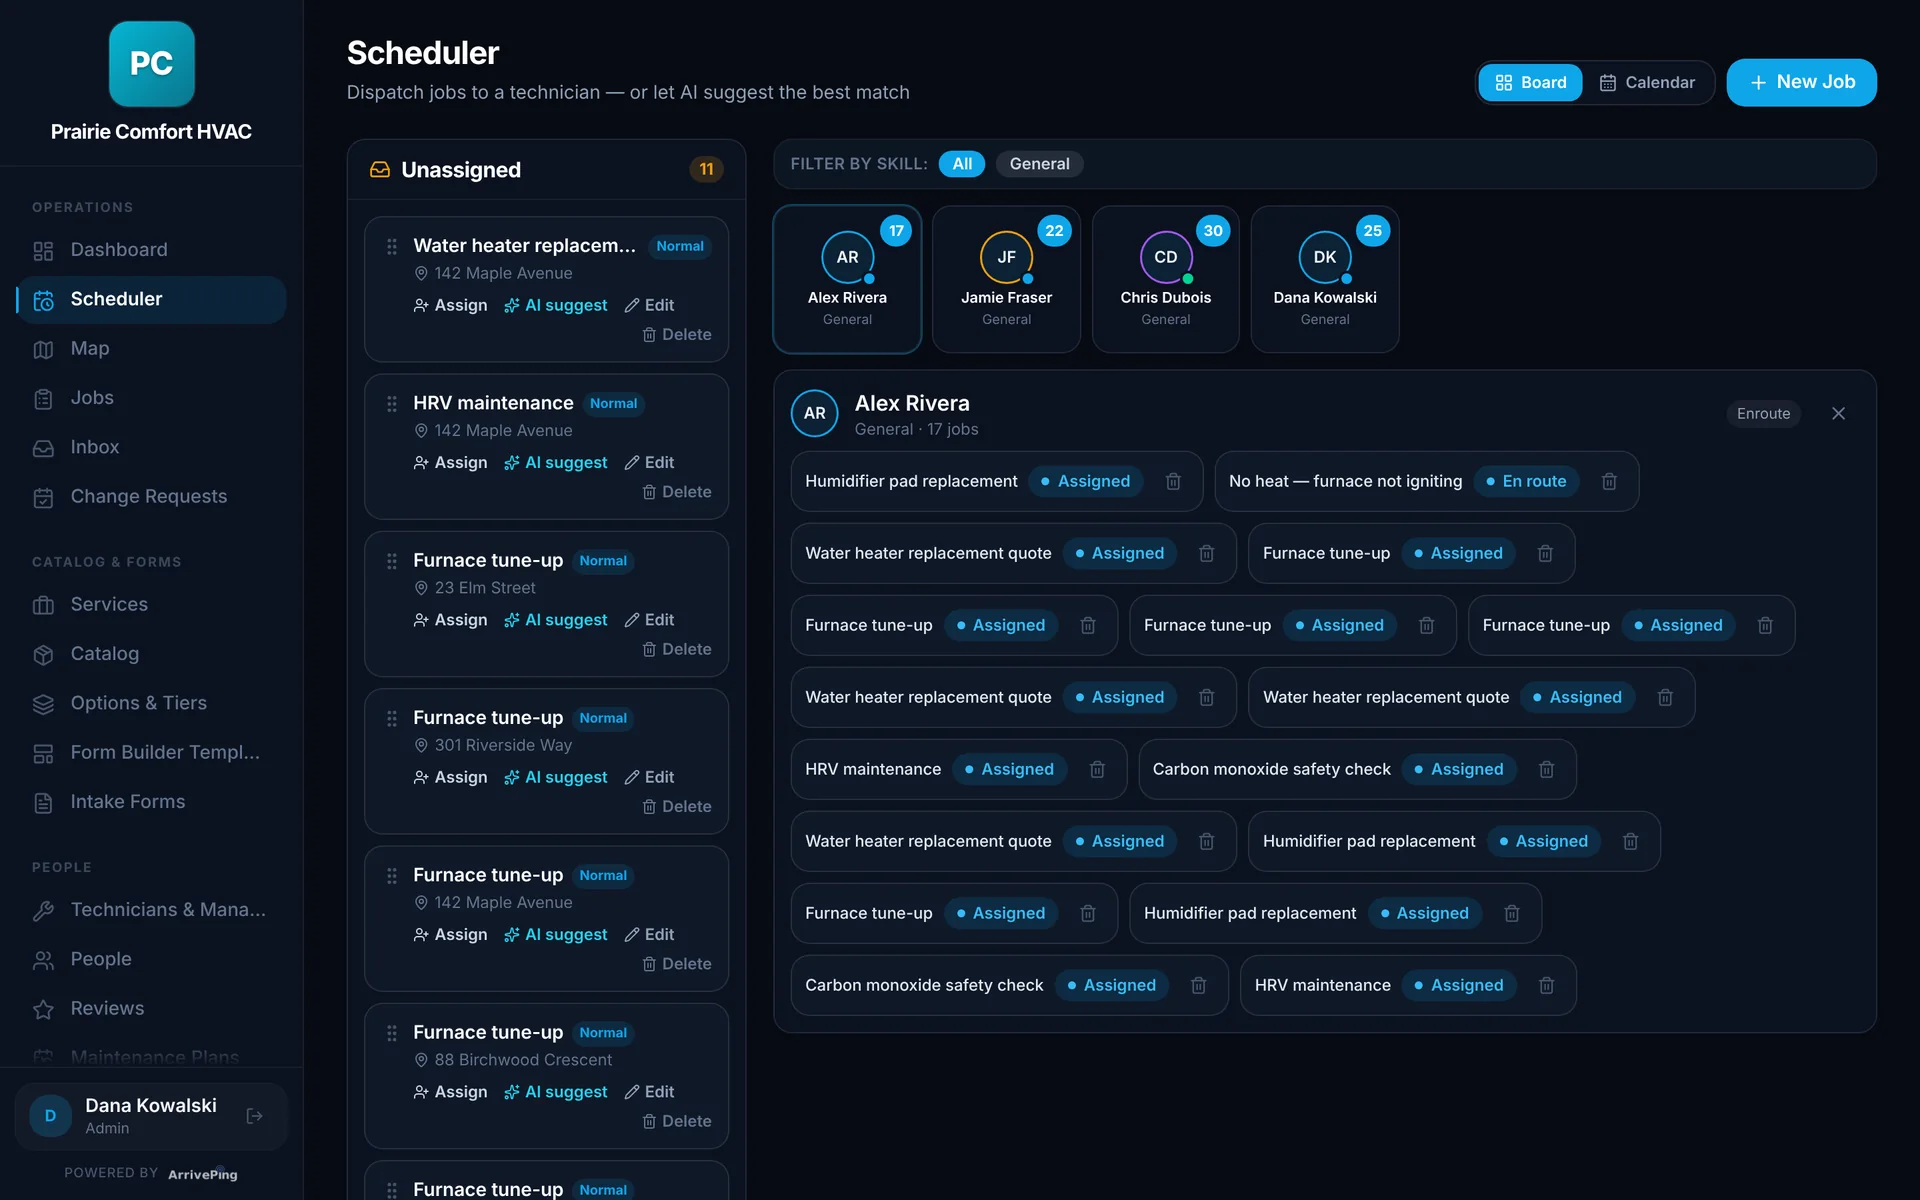
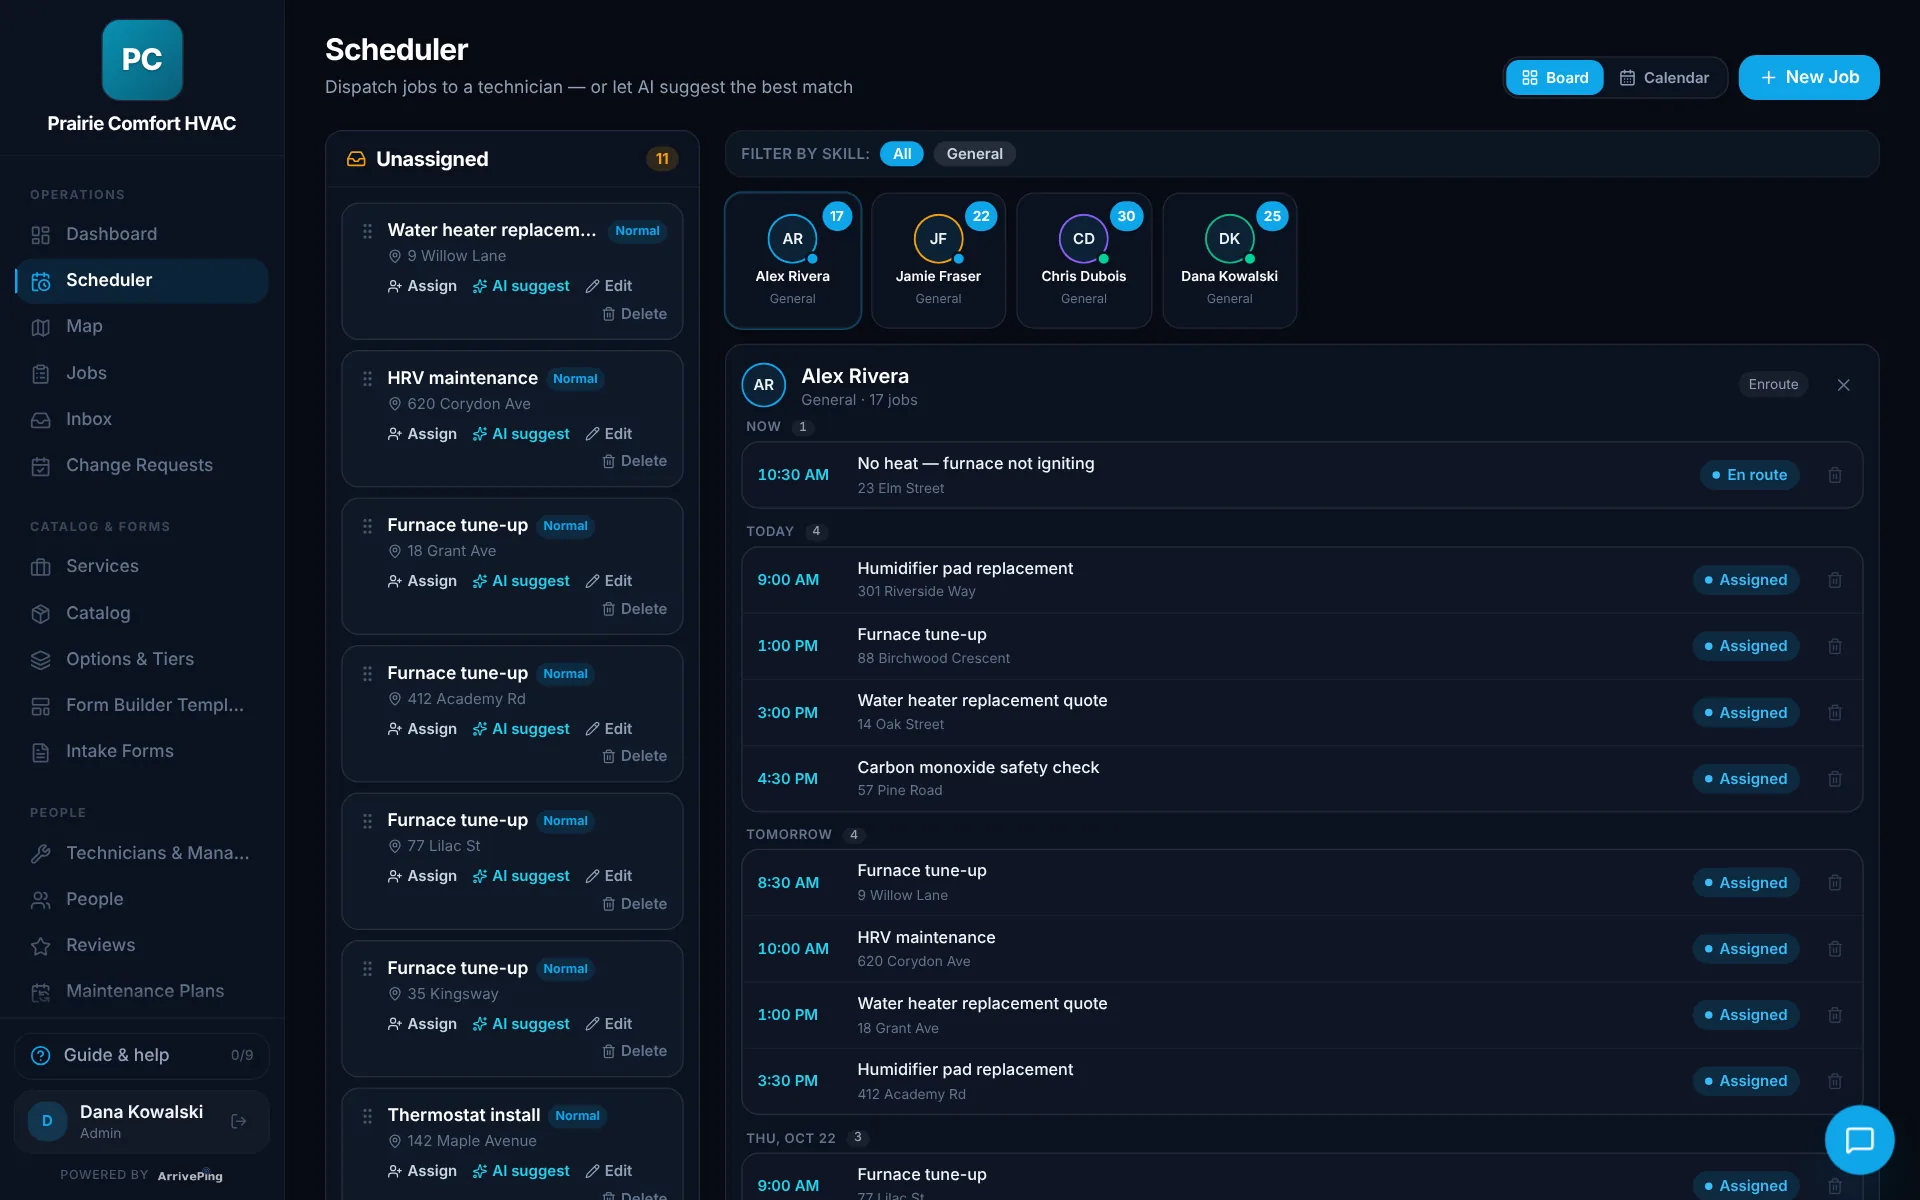
Homepage Assign screenshot: retaken with the grouped technician job list
Rendered from the current scheduler (Board view, Alex Rivera selected) at
1536x960 @1.25x with the Prairie Comfort HVAC sample data, so it matches the
other app screenshots. Alt text describes the new grouping.

Claude-Session: https://claude.ai/code/session_01SV1JVi6rSq7sWCiKhP9umz

diff --git a/packages/web/src/web/site/config.ts b/packages/web/src/web/site/config.ts
@@ -378,7 +378,7 @@ export const officeView = {
       src: "/img/site/app/office-board.webp?v=07dee3e1",
       width: 1920,
       height: 1200,
-      alt: "The ArrivePing dispatch board: unassigned jobs with Assign and AI suggest buttons, four technicians with their job counts, and one technician's 17 jobs with their statuses.",
+      alt: "The ArrivePing dispatch board: unassigned jobs with Assign and AI suggest buttons, four technicians with their job counts, and one technician's 17 jobs grouped into Now, Today, Tomorrow and the days ahead, each with its time, address and status.",
       caption: "Assign by hand, or let ArrivePing suggest the best technician.",
     },
     {
